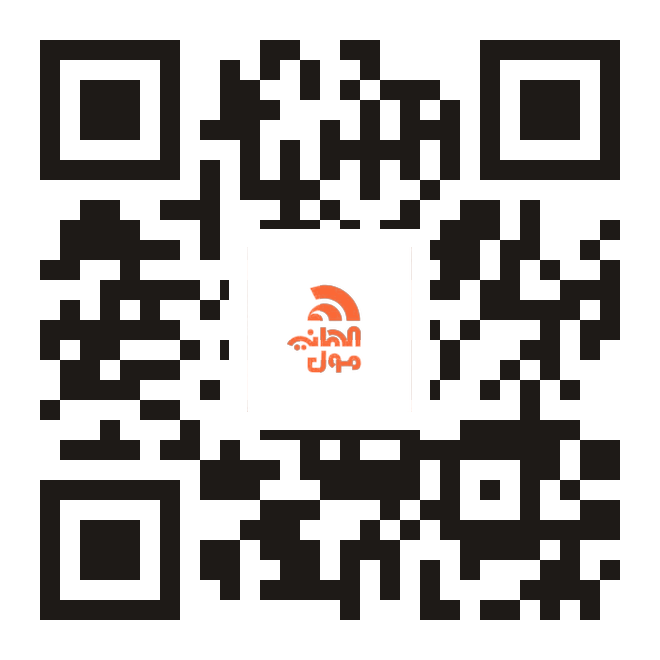
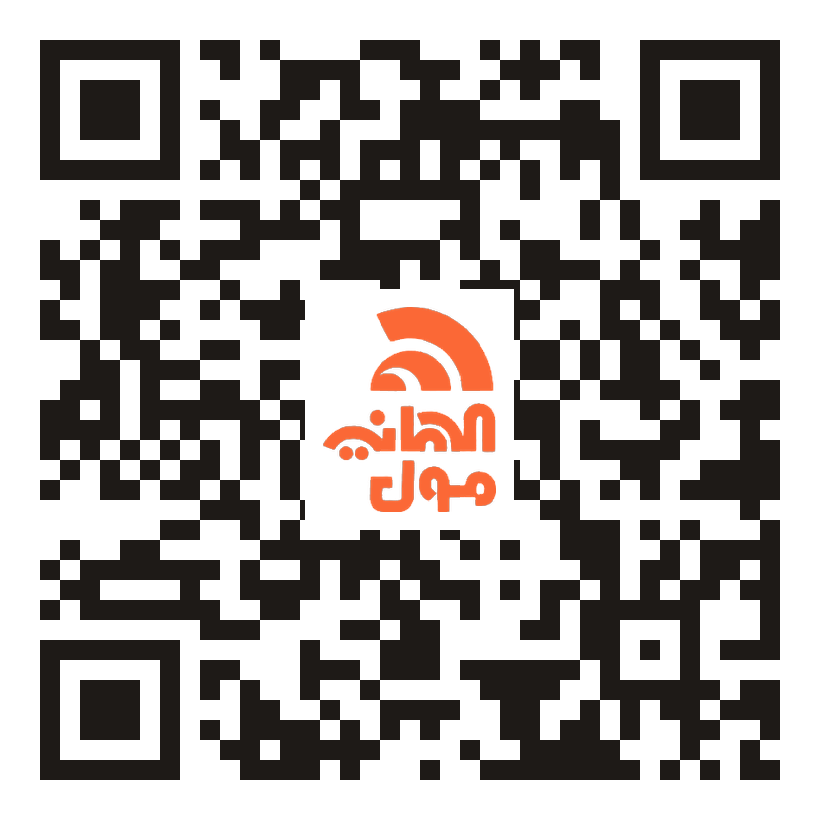
QR points to GitHub Pages URL
Claude-Session: https://claude.ai/code/session_013byJmXqywk6brp9UGGG11K

diff --git a/README.md b/README.md
@@ -2,7 +2,7 @@
 
 صفحة واحدة ثابتة (`public/index.html`, مكتفية بذاتها، الشعار مضمّن) تعرض أرقام حسابات المول كنص قابل للنسخ بضغطة.
 
-- **النشر:** `docker compose up -d` → nginx على المنفذ 8090 · الرابط الحالي: http://169.58.143.252:8090
+- **النشر:** `docker compose up -d` → nginx على المنفذ 8090 · الرابط الرسمي: https://mextox.github.io/alhani-pay/ (GitHub Pages) · نسخة احتياطية على السيرفر: http://169.58.143.252:8090
 - **تعديل الأرقام:** عدّل مصفوفة `BANKS` داخل `public/index.html` (الاسم، رقم الحساب، IBAN اختياري) — لا حاجة لإعادة تشغيل الحاوية.
 - **QR:** `.venv/bin/python make_qr.py "https://الرابط"` → `qr.png` (مع الشعار) و`qr-plain.png` (بدون). عند تغيير الرابط/الدومين أعد التوليد.
 - الشعار: `logo-white.png` / `logo-orange.png` (خلفية شفافة) مستخرجان من شعار العميل.
